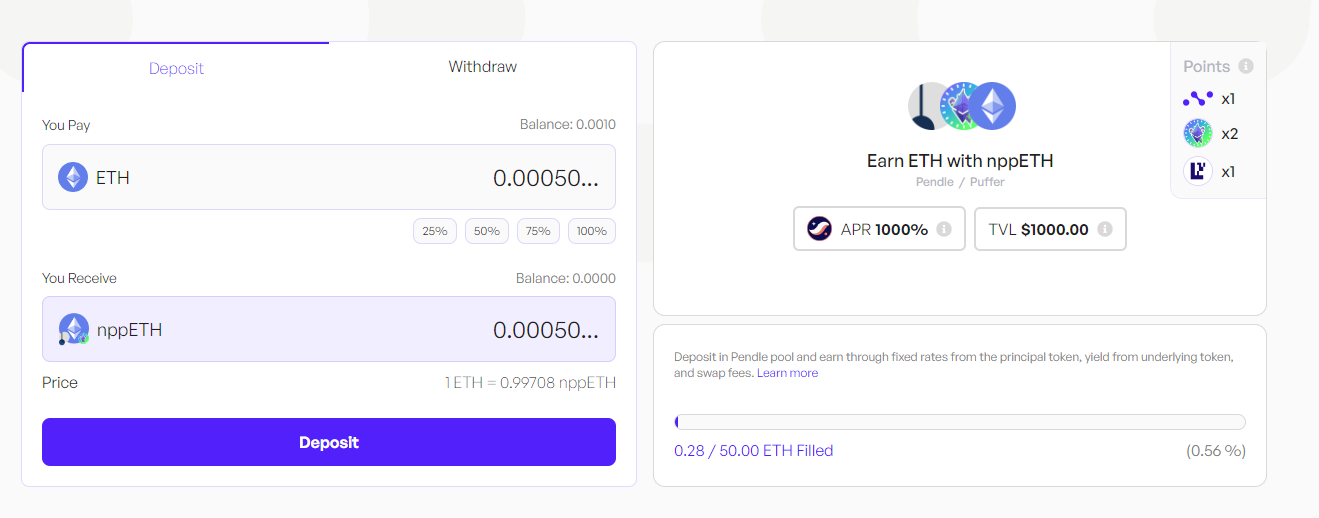
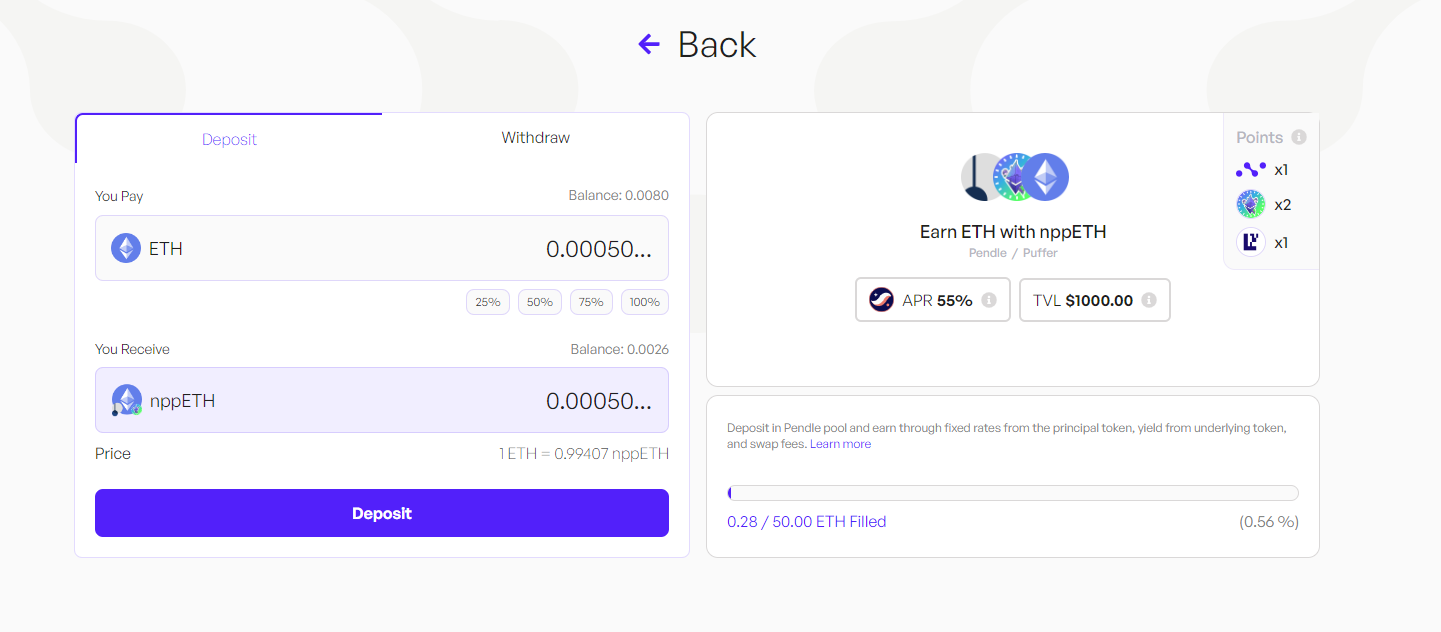
puffer strategy update

diff --git a/docs/concepts/products/earn/pendle_lp_integration/02-puffer.md b/docs/concepts/products/earn/pendle_lp_integration/02-puffer.md
@@ -42,10 +42,7 @@ As a result, you will receive nppETH, which is Liquid Restaking Token (LRT). And
 
 ## Your Earning Starts Immediately![](https://docs.nimbora.io/docs/concepts/products/earn/pendle_lp_integration/npeEth#your-earning-starts-immediately)
 
-Your yield comes from several sources -  **11% nppETH base yield** + **$STRK** **incentives** + **Nimbora** **boost.**
-
-![Untitled](../../../../../static/content/stategy_nppeth/yield.png)
-
+Your yield comes from several sources -  **nppETH base yield** + **$STRK** **incentives** + **Nimbora** **boost.**
 
 1. **Base**: Represents default strategy yield.
 2. **Boost**: Represents incentives provided by the Nimbora team using the [Starknet Catalyst grant](https://medium.com/@Nimbora/nimbora-and-starknet-catalyst-program-14cc7f2f1ab5).
